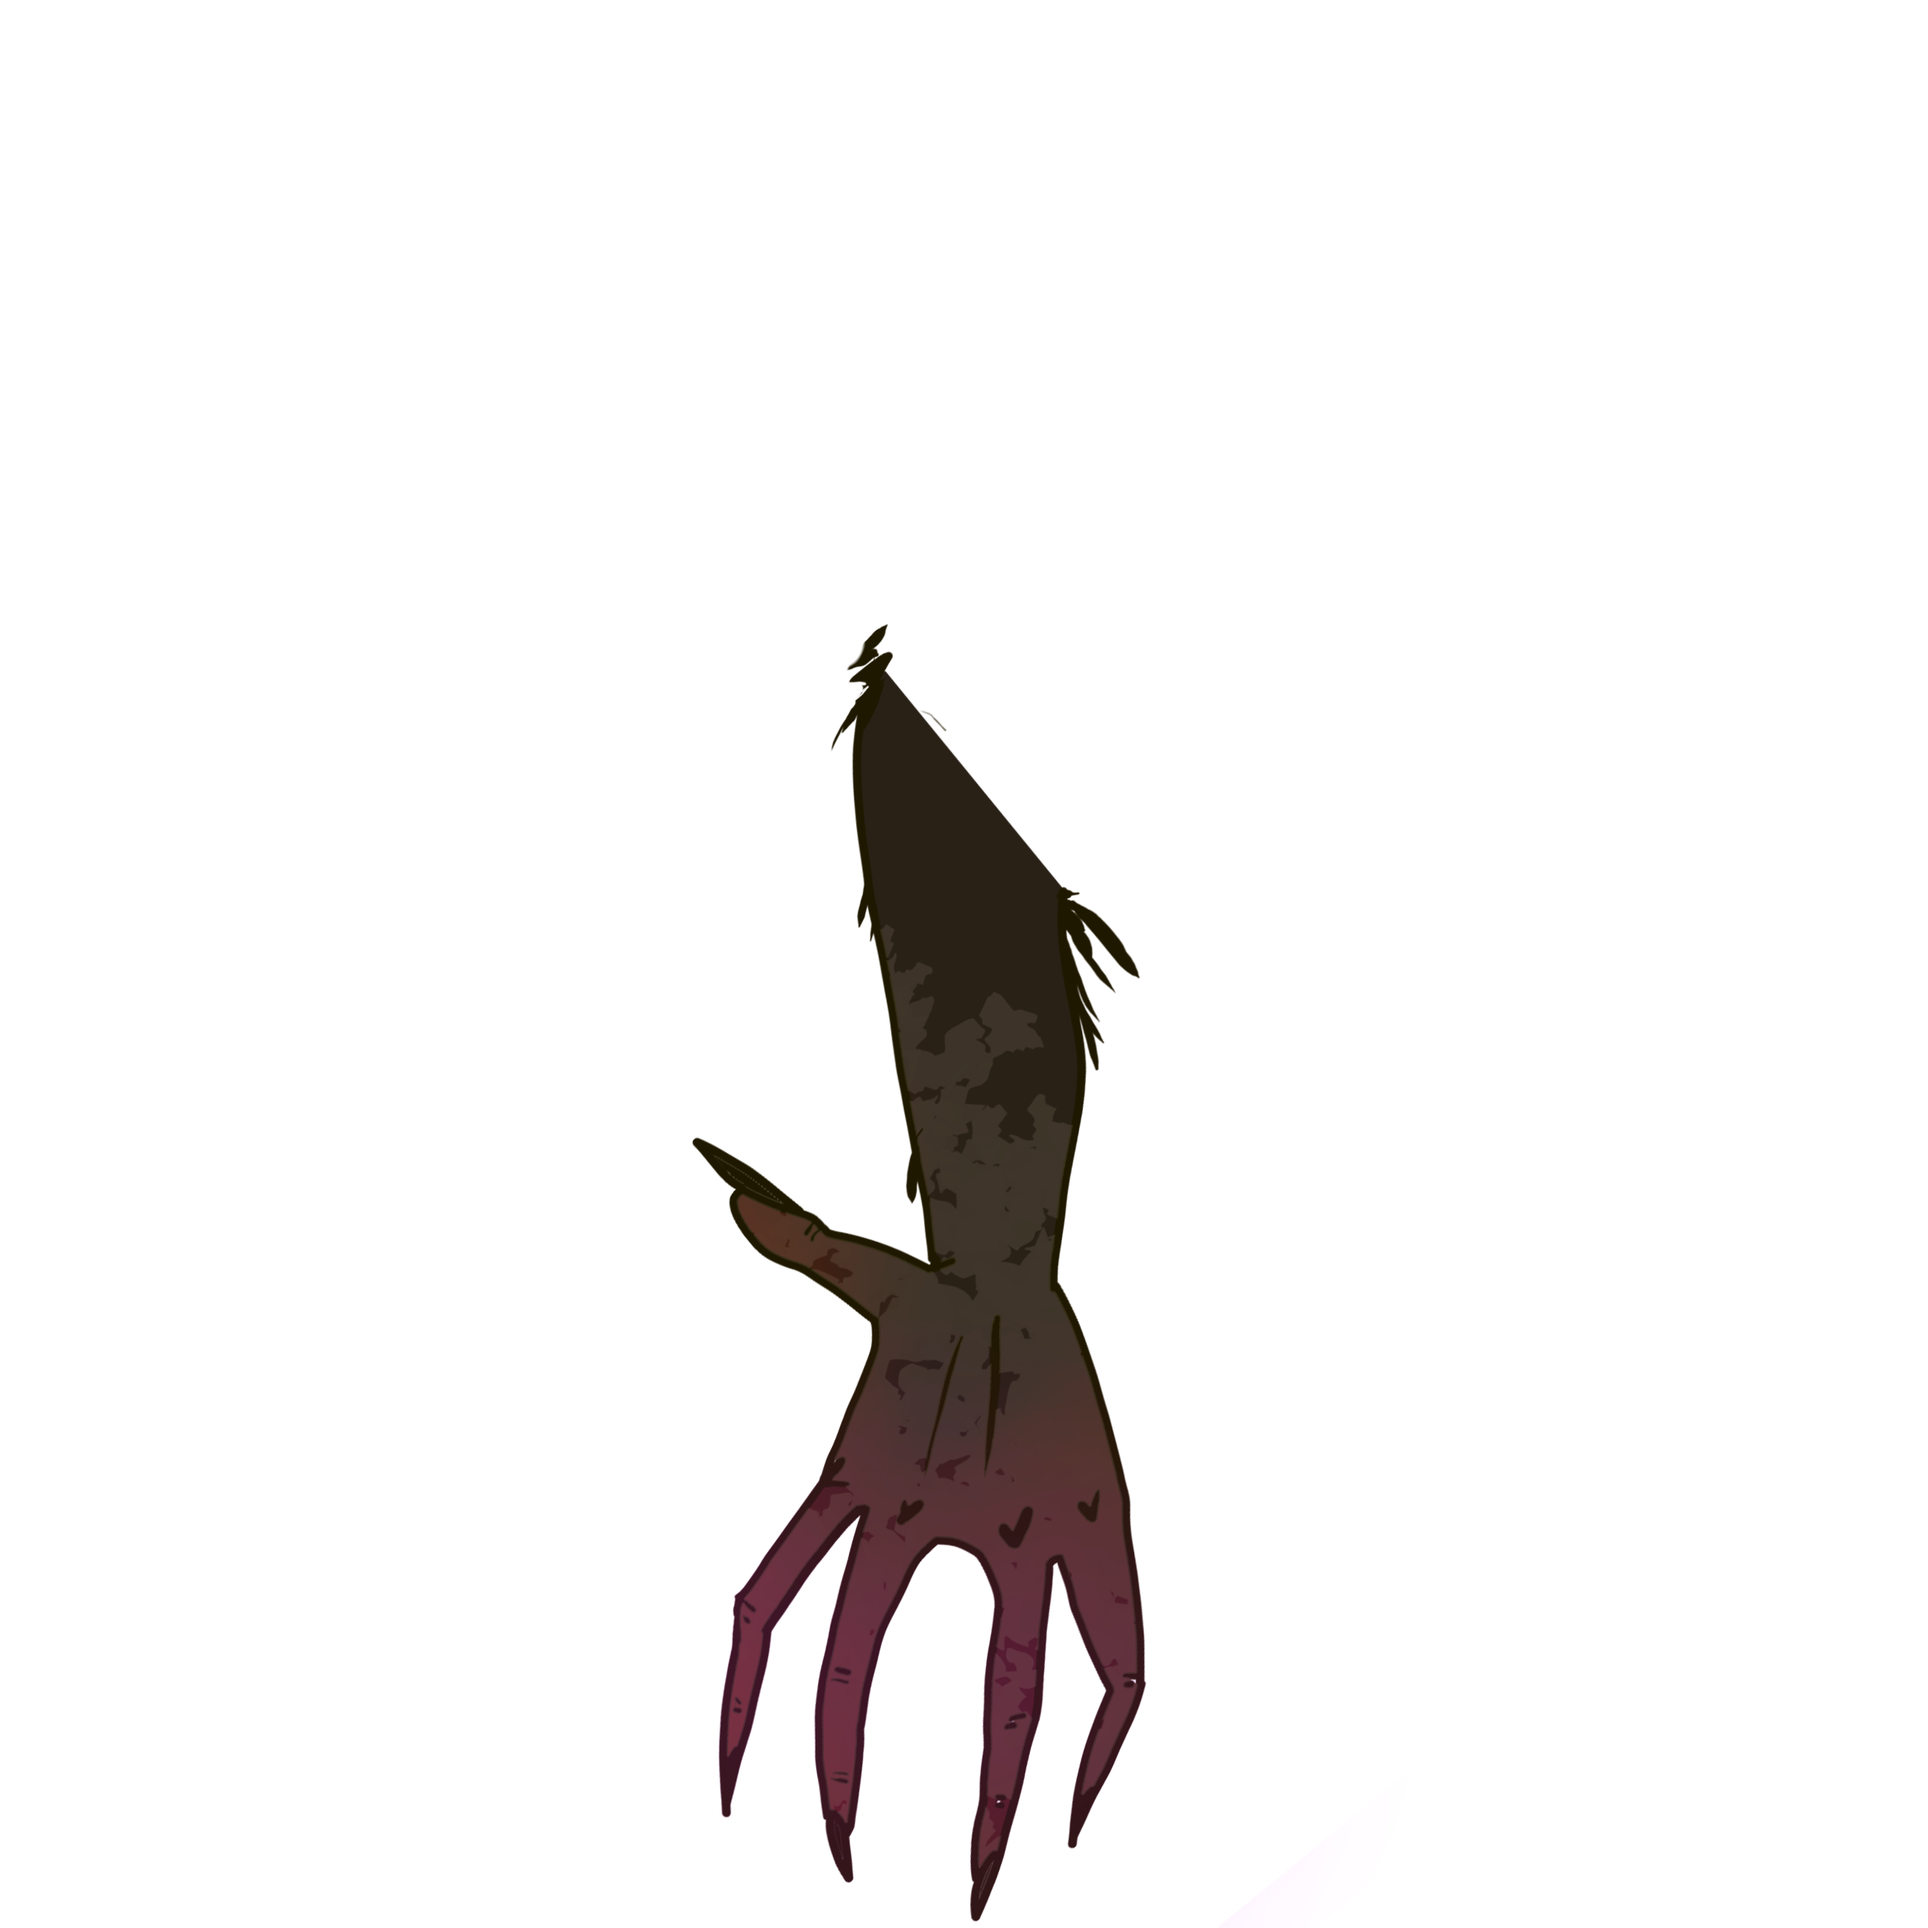
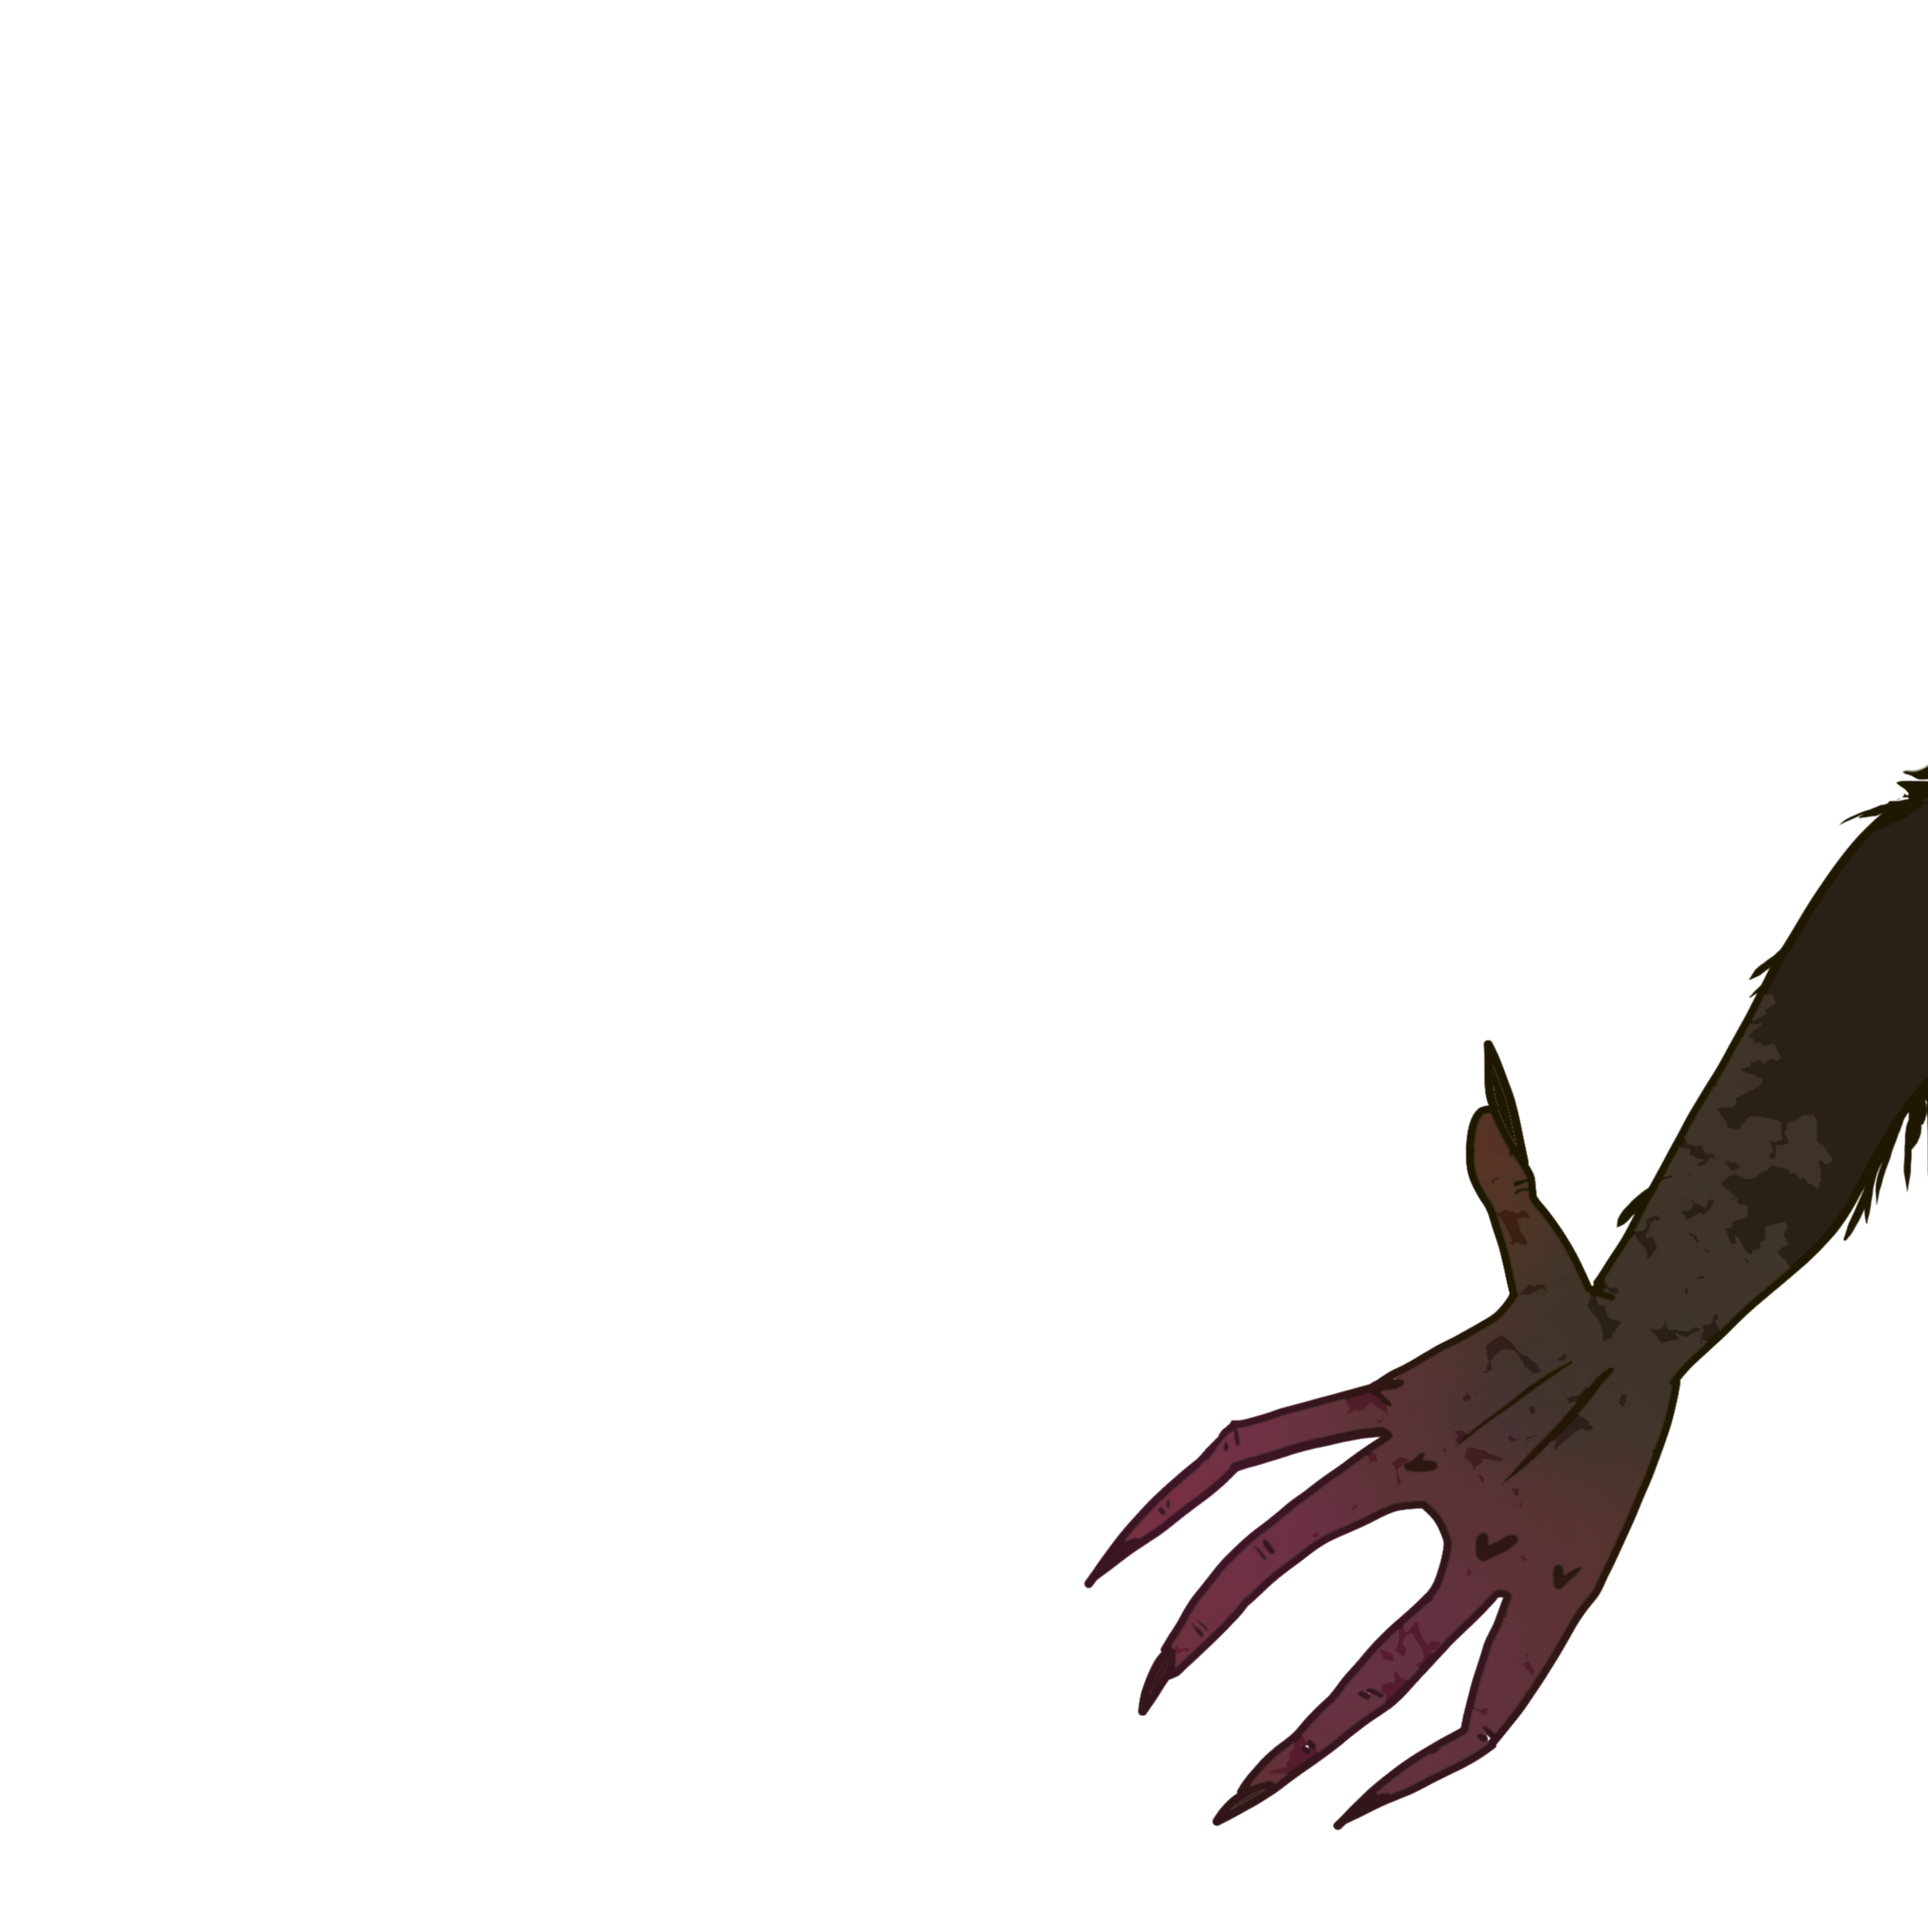
Руки двигаются мутки мутятся

Changed region(s): [[0.3415, 0.3105, 1.0, 0.9935]]

diff --git a/main.py b/main.py
@@ -293,8 +293,8 @@ mobimage = pygame.transform.scale(load_image("mob.png"), (350, 236))
 healimage = pygame.transform.scale(load_image("heal.png"), (150, 57))
 bulletsimage = pygame.transform.scale(load_image("bullets.png"), (150, 70))
 devilhead = pygame.transform.scale(load_image("bosshead.png"), (WIDTH, HEIGHT))
-devilrhand = pygame.transform.scale(load_image("bossrighthand.png"), (WIDTH, HEIGHT))
-devillhand = pygame.transform.scale(load_image("bosslefthand.png"), (WIDTH, HEIGHT))
+devilrhand = pygame.transform.scale(load_image("bossrighthand1.png"), (WIDTH, HEIGHT))
+devillhand = pygame.transform.scale(load_image("bosslefthand1.png"), (WIDTH, HEIGHT))
 bulletimage = pygame.transform.scale(load_image("bullet.png"), (20, 30))
 
 all_sprites = pygame.sprite.Group()
@@ -304,12 +304,12 @@ player = Player(playerimage, 4, 4)
 bosshead = DevilHead(devilhead)
 bossrhand = DevilHand(devilrhand)
 bossrhand.rotspeed = -0.1
-bossrhand.rect.x = 100 + WIDTH//2
-# rect
+bossrhand.maxangle = -45
+bossrhand.rect.x = WIDTH // 2
+
 bosslhand = DevilHand(devillhand)
 bosslhand.rotspeed = 0.1
-bosslhand.rect.x = - bossrhand.rect.x
-# rect
+bosslhand.rect.x = - WIDTH // 2
 healers = pygame.sprite.Group()
 amo = pygame.sprite.Group()
 all_sprites.add(player)

diff --git a/game_methods.py b/game_methods.py
@@ -216,9 +216,12 @@ class DevilHand(pygame.sprite.Sprite):
         self.timestamp = 0
         self.rot = 0
         self.rotspeed = 0
+        self.maxangle = 45
 
     def update(self, *args):
-        self.rot = (self.rot + self.rotspeed) % 90
+        if abs(self.rot) >= abs(self.maxangle)-1:
+            self.rotspeed *= -1
+        self.rot = (self.rot + self.rotspeed) % self.maxangle
         newimage = pygame.transform.rotate(self.imagecopy, self.rot)
         oldcenter = self.rect.center
         self.image = newimage
